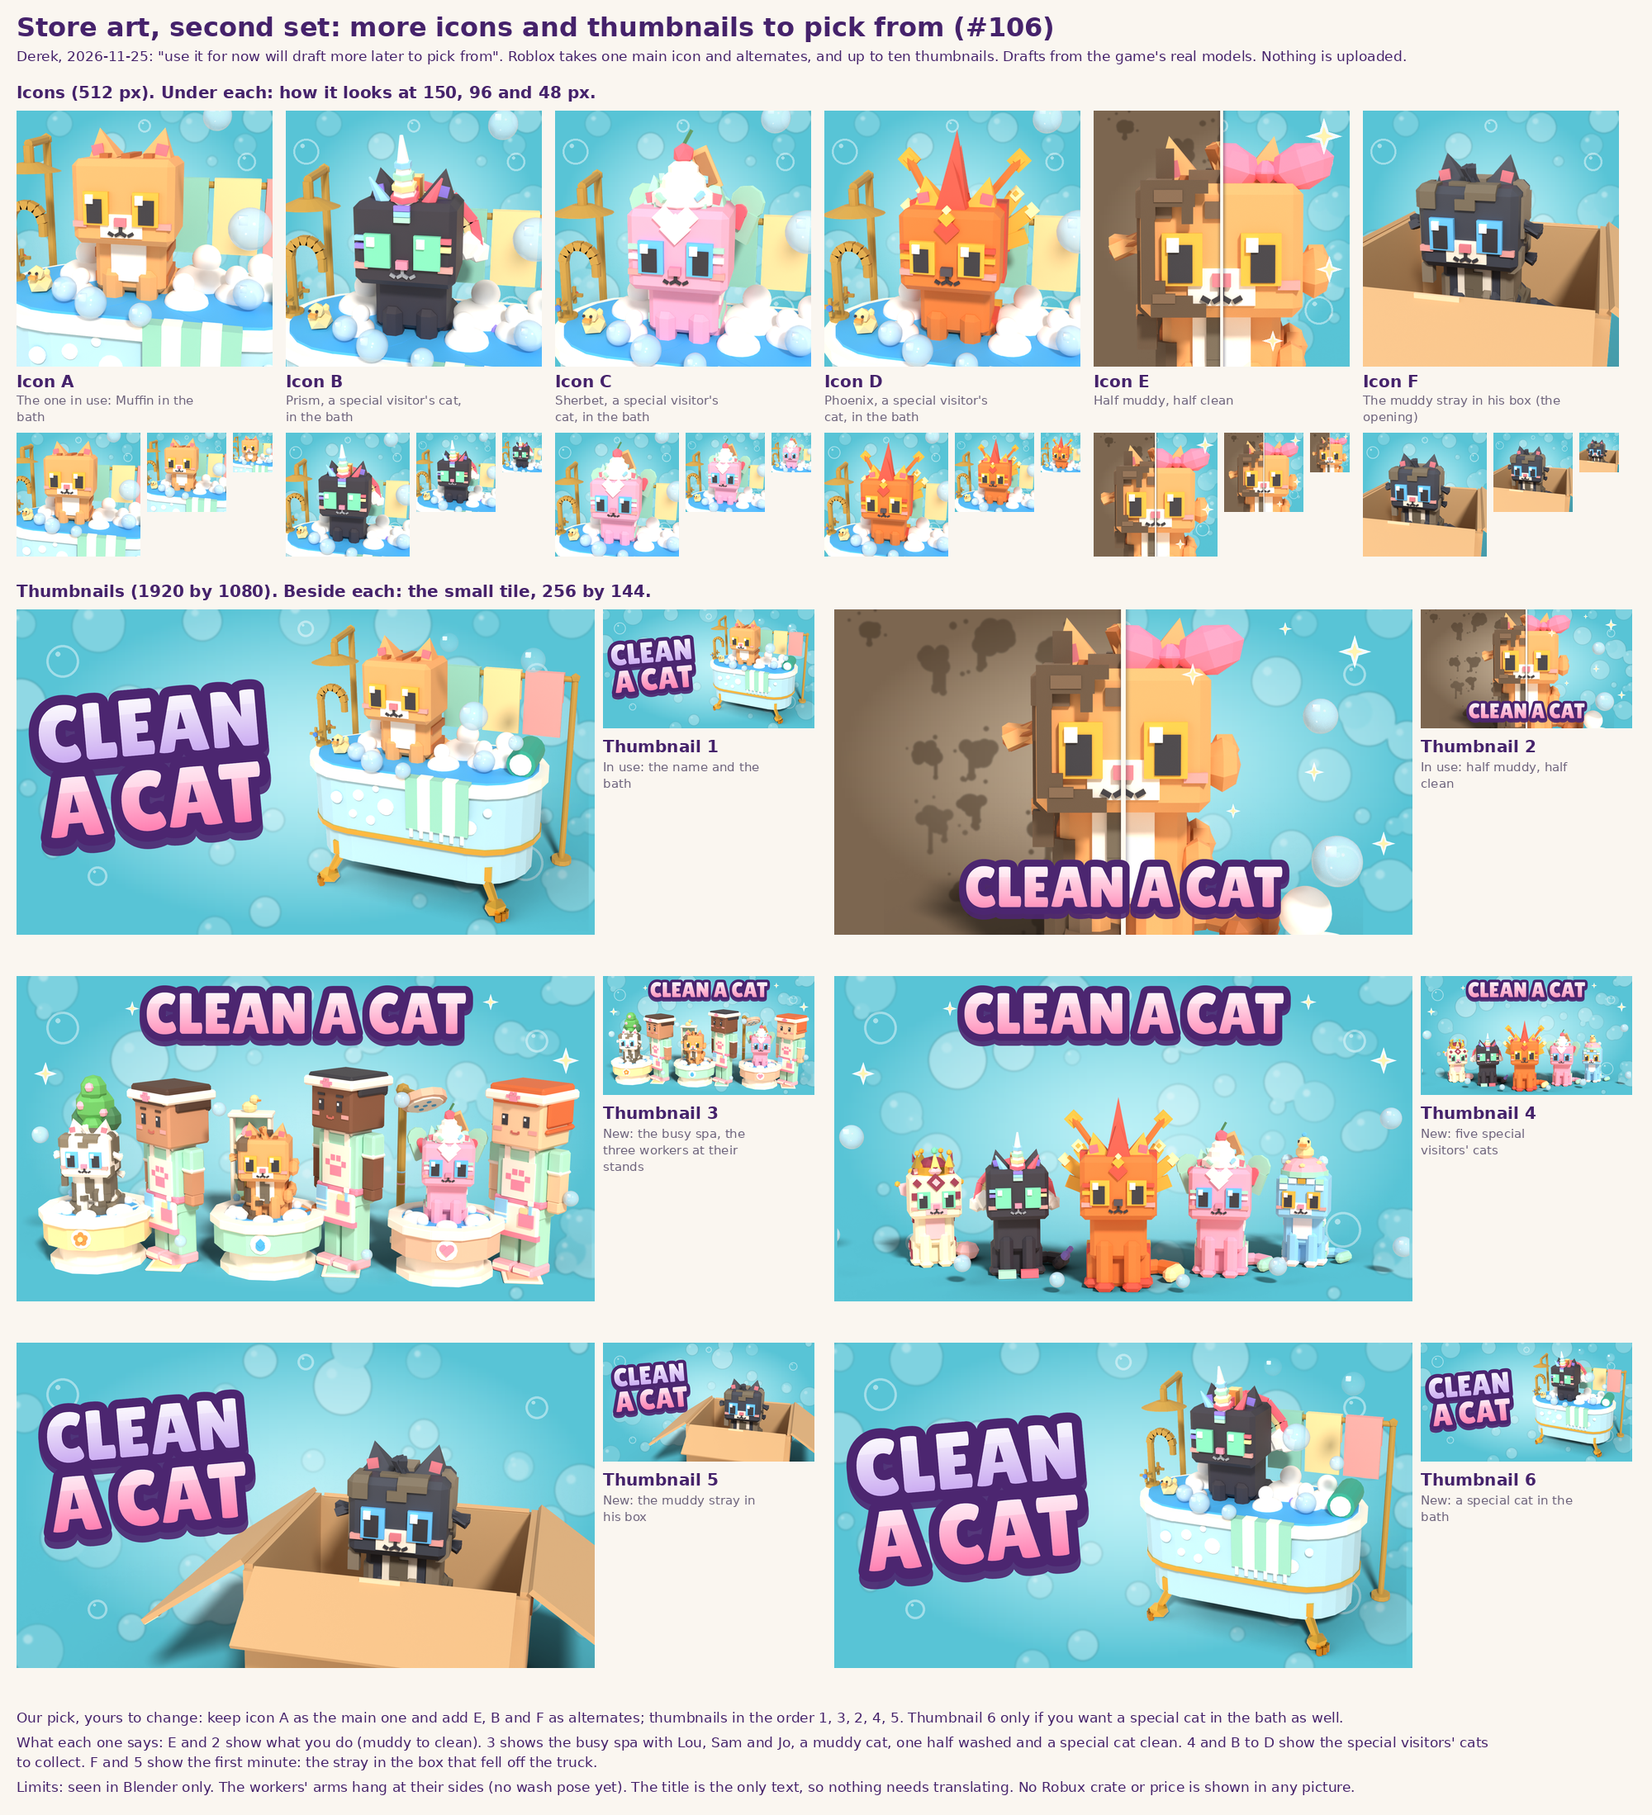
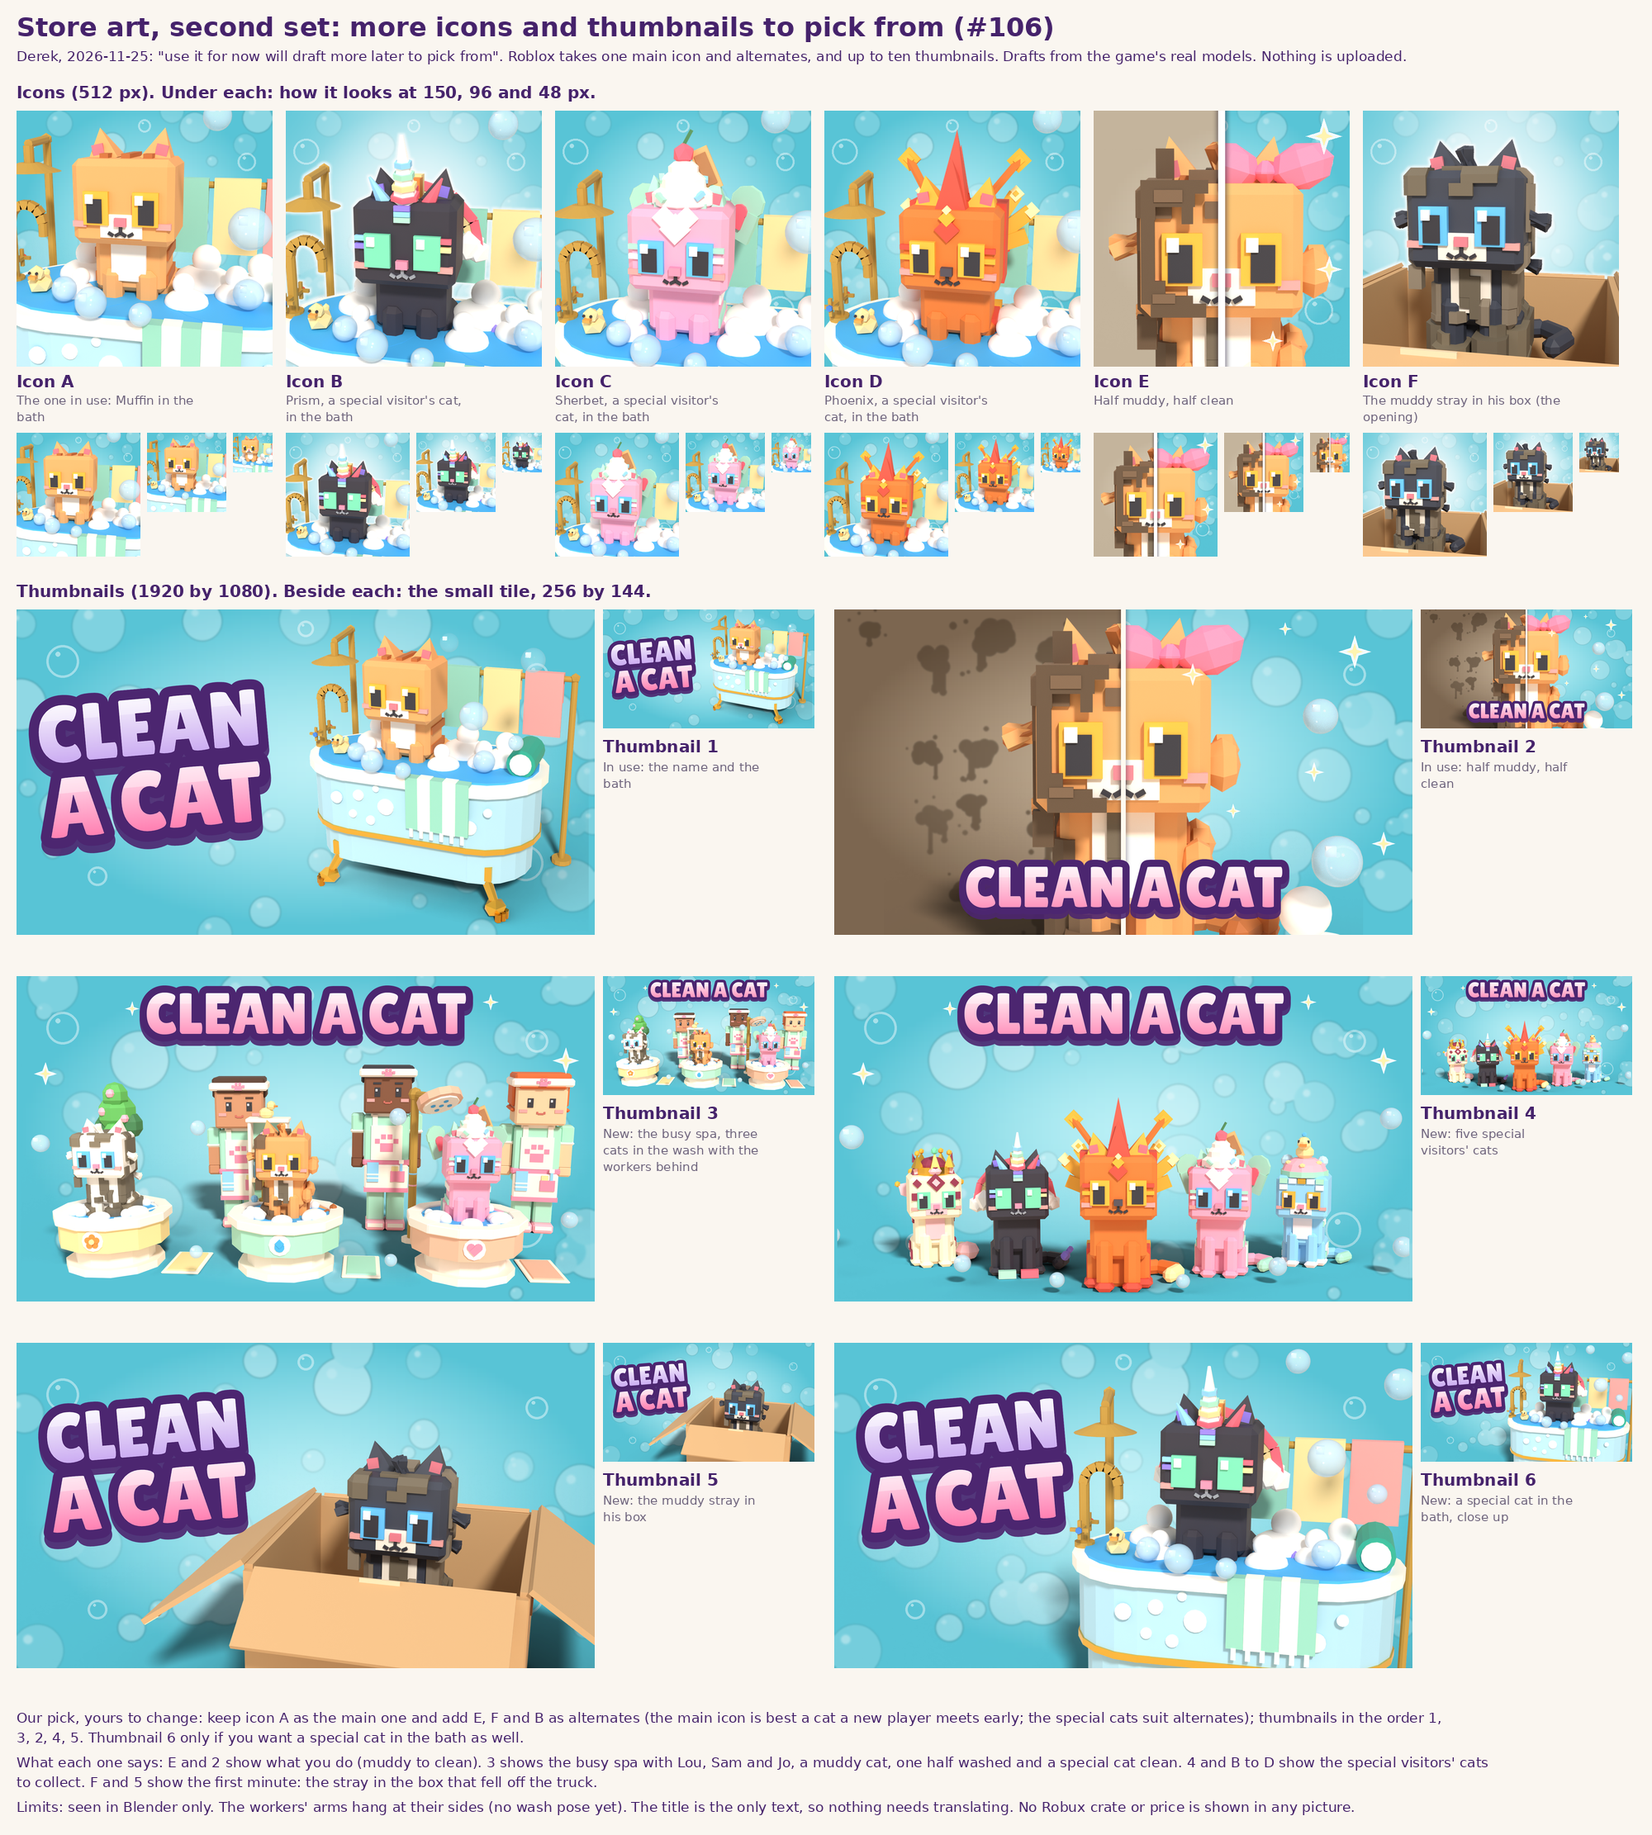
Store art set 2: fix the five pictures Review-QA marked (#106)
Icon B gets a white light behind Prism's dark head, icon E a plain pale
muddy half and a wider white divider, icon F a closer stray against the
backdrop. Thumbnail 3 puts the three cats in front with the workers
behind their stands, and thumbnail 6 is a new close shot of the bath
(thumb-close-<Name>). Pick sheet remade.

Claude-Session: https://claude.ai/code/session_01DW2up3E6M21fYJtCcCtEdr

diff --git a/assets/clean-a-cat/blender/store_compose.py b/assets/clean-a-cat/blender/store_compose.py
@@ -411,13 +411,18 @@ def _split_art(raw_dir):
     return art, rm, dirty.getchannel("A").point(lambda a: 255 if a >= 250 else 0).getbbox()
 
 
+ICON_GLOW = {"icon-spa-Prism": (0.5, 0.42, 0.4), "icon-box": (0.5, 0.4, 0.42)}     # dark cats: light behind the head
+
+
 def icon_split(raw_dir, size=512):
     """An icon from the split thumbnail's renders (#106): the cat's face filling the square, its left half muddy on
     the drab backdrop and its right half clean on the bubbles, the thin line between. No words."""
     art, rm, solid = _split_art(raw_dir)
     bg = bubble_backdrop((size, size), seed=9)
     mid = size // 2
-    bg.paste(mud_backdrop((size * 2, size), seed=7).crop((0, 0, mid, size)), (0, 0))
+    # a pale dusty backdrop with no splats on the muddy half: at 48 px splats and a dark brown made the half one
+    # brown smear, and the mud on the fur has to be the darkest thing there (Review-QA on #106)
+    bg.paste(backdrop_plain((size * 2, size), (238, 228, 210), (196, 180, 156)).crop((0, 0, mid, size)), (0, 0))
     k = size * 1.3 / (solid[3] - solid[1])                 # the head fills the square, the chest runs out under it
     art = art.resize((int(art.width * k), int(art.height * k)), Image.LANCZOS)
     bg.alpha_composite(art, (int(mid - rm * k), int(size * 0.1 - solid[1] * k)))
@@ -428,22 +433,33 @@ def icon_split(raw_dir, size=512):
         sparkle(d, fxr * size, fyr * size, r * size * 0.5, (255, 244, 176, 255))
     bg.alpha_composite(fx)
     line = Image.new("RGBA", (size, size), (0, 0, 0, 0))
-    lw = max(2, int(size * 0.006))
-    ImageDraw.Draw(line).rectangle((mid - lw - 2, 0, mid + lw + 2, size), fill=(40, 30, 60, 90))
-    line = line.filter(ImageFilter.GaussianBlur(lw * 0.8))
-    ImageDraw.Draw(line).rectangle((mid - lw, 0, mid + lw - 1, size), fill=SPLIT_LINE + (255,))
+    lw = max(2, int(size * 0.014))                          # a wide white divider: about 1.5 px at 48
+    ImageDraw.Draw(line).rectangle((mid - lw - 3, 0, mid + lw + 3, size), fill=(40, 30, 60, 120))
+    line = line.filter(ImageFilter.GaussianBlur(lw * 0.6))
+    ImageDraw.Draw(line).rectangle((mid - lw, 0, mid + lw - 1, size), fill=(255, 255, 255, 255))
     bg.alpha_composite(line)
     return bg
 
 
-def icon_plain(raw_dir, key, seed=9, shadow=1.0):
+def icon_plain(raw_dir, key, seed=9, shadow=1.0, glow=None):
     """A 512 icon from a close square render: the bubble backdrop and no words. `shadow` under 1 thins the floor's
-    see-through shadow (the box's flap throws a dark wedge into the corner)."""
+    see-through shadow (the box's flap throws a dark wedge into the corner). `glow` (x, y, radius as shares of the
+    square) puts a soft white light on the backdrop behind a dark cat's head, and a thin light rim goes round the
+    render, so a dark coat holds its outline at 48 px (Review-QA on #106)."""
     bg = bubble_backdrop((512, 512), seed=seed)
     art = Image.open(os.path.join(raw_dir, f"raw-{key}.png")).convert("RGBA")
     if shadow < 1.0:
         art.putalpha(art.getchannel("A").point(lambda v: v if v >= 250 else int(v * shadow)))
     art = art.resize((512, 512), Image.LANCZOS)
+    if glow:
+        gx, gy, gr = (v * 512 for v in glow)
+        light = Image.new("L", (512, 512), 0)
+        ImageDraw.Draw(light).ellipse((gx - gr, gy - gr, gx + gr, gy + gr), fill=215)
+        light = light.filter(ImageFilter.GaussianBlur(gr * 0.42))
+        bg.paste(Image.new("RGBA", (512, 512), (255, 255, 255, 255)), (0, 0), light)
+        solid = art.getchannel("A").point(lambda v: 255 if v >= 250 else 0)
+        rim = solid.filter(ImageFilter.MaxFilter(9)).filter(ImageFilter.GaussianBlur(2.2))
+        bg.paste(Image.new("RGBA", (512, 512), (255, 255, 255, 255)), (0, 0), rim.point(lambda v: int(v * 0.8)))
     bg.alpha_composite(art, (0, 0))
     return bg
 
@@ -469,13 +485,14 @@ def compose_lineup(raw_dir, final=False, key="thumb-lineup"):
     return bg
 
 
-def compose_box(raw_dir, final=False):
-    """The stray in his box (#106): the title on the left, the box close on the right and running out of the frame's
-    foot."""
+def compose_box(raw_dir, final=False, key="thumb-box"):
+    """A render that is the whole frame with the stacked title on its left (#106): the stray in his box
+    (`thumb-box`), the box close on the right and running out of the frame's foot, or the bath close with a special
+    cat in it (`thumb-close-<Name>`)."""
     size = (1920, 1080) if final else (1280, 720)
     w, h = size
     bg = bubble_backdrop(size, seed=5)
-    art = Image.open(os.path.join(raw_dir, "raw-thumb-box.png")).convert("RGBA").resize(size, Image.LANCZOS)
+    art = Image.open(os.path.join(raw_dir, f"raw-{key}.png")).convert("RGBA").resize(size, Image.LANCZOS)
     bg.alpha_composite(art, (0, 0))                       # the render is the whole frame
     title = title_block(int(w * 0.4))
     title = fit(title, w * 0.42, h * 0.8)
@@ -516,12 +533,12 @@ if __name__ == "__main__":
     for name in sorted(os.listdir(raw_dir)):                 # the second set (#106)
         key = name[4:-4]
         if name.startswith("raw-icon-spa-") or key == "icon-box":
-            icon_plain(raw_dir, key, shadow=0.3 if key == "icon-box" else 1.0).convert("RGB").save(
-                os.path.join(out_dir, f"{key}.png"))
+            icon_plain(raw_dir, key, shadow=0.3 if key == "icon-box" else 1.0,
+                       glow=ICON_GLOW.get(key)).convert("RGB").save(os.path.join(out_dir, f"{key}.png"))
         elif name.startswith("raw-thumb-spa-"):
             compose_spa(raw_dir, final, key).convert("RGB").save(os.path.join(out_dir, f"{key}.png"))
-        elif key == "thumb-box":
-            compose_box(raw_dir, final).convert("RGB").save(os.path.join(out_dir, f"{key}.png"))
+        elif key == "thumb-box" or name.startswith("raw-thumb-close-"):
+            compose_box(raw_dir, final, key).convert("RGB").save(os.path.join(out_dir, f"{key}.png"))
         elif key == "thumb-busy":
             compose_lineup(raw_dir, final, key).convert("RGB").save(os.path.join(out_dir, f"{key}.png"))
     if os.path.exists(os.path.join(raw_dir, "raw-split-dirty.png")):

diff --git a/assets/clean-a-cat/blender/store_art.py b/assets/clean-a-cat/blender/store_art.py
@@ -412,6 +412,17 @@ def spa_scene(mat, name="Muffin"):
     return objs, cat, wz
 
 
+def thumb_spa_close(mat, out, res, name="Prism"):
+    """The bath close, the whole frame (#106): the cat on the right two thirds up the frame, the tub's rim, tap, duck
+    and lather round it and the tub running out of the frame's foot and right edge. The title goes on the left."""
+    objs, cat, wz = spa_scene(mat, name)
+    lo, hi = common.bounds(cat)
+    cx = (lo.x + hi.x) / 2
+    top = hi.z + 0.15
+    focus = (Vector((cx - 5.0, lo.y, top - 4.2)), Vector((cx + 2.4, lo.y + 0.4, top)))
+    return render(objs, focus, out, res, az=14, el=13, margin=0.9, lens=55)
+
+
 def thumb_spa(mat, out, res, name="Muffin"):
     """The store thumbnail: the whole bath, blown up."""
     objs, _cat, _wz = spa_scene(mat, name)
@@ -565,9 +576,10 @@ SHOTS = {
 
 
 # ------------------------------------------------------------------ the second set (#106)
-def box_scene(mat):
+def box_scene(mat, lift=0.72):
     """The opening's hook: the muddy stray (Suds, before his wash) looking out of the plain brown box that fell off
-    the truck, its flaps open. Returns (objects, the cat, the box's rim height)."""
+    the truck, its flaps open. `lift` is how far over the box's floor he is held. Returns (objects, the cat, the
+    box's rim height)."""
     import opening
     box = opening.build_box(mat)
     bpy.context.view_layer.update()
@@ -575,16 +587,18 @@ def box_scene(mat):
         for kind, (axis, sign) in opening.FLAP_TURN.items():
             if o.name.endswith("_Flap" + kind):
                 o.matrix_world = o.matrix_world @ Matrix.Rotation(math.radians(sign * opening.FLAP_OPEN), 4, axis)
-    cat = cat_state("Suds", mat, "sit", "dirty", (0, 0.1, opening.BOX_SEAT + 0.72))
+    cat = cat_state("Suds", mat, "sit", "dirty", (0, 0.1, opening.BOX_SEAT + lift))
     return _fresh(box) + cat, cat, opening.RIM
 
 
 def icon_box(mat, out, res):
-    """Icon: the muddy stray's face over the rim of his box."""
-    objs, cat, rim = box_scene(mat)
+    """Icon: the muddy stray's face over the rim of his box. He stands higher than in the thumbnail and the camera
+    is low, so his dark head is against the backdrop and not the box's shaded inside, and the face is about half the
+    square (Review-QA on #106)."""
+    objs, cat, rim = box_scene(mat, lift=1.12)
     lo, hi = common.bounds([o for o in cat if "_Mud" not in o.name and "_Tangle" not in o.name])
-    focus = (Vector((lo.x - 0.35, lo.y, rim - 0.55)), Vector((hi.x + 0.35, lo.y + 0.4, hi.z + 0.08)))
-    return render(objs, focus, out, res, az=14, el=16, margin=1.0, lens=60)
+    focus = (Vector((lo.x - 0.08, lo.y, rim - 0.22)), Vector((hi.x + 0.08, lo.y + 0.4, hi.z + 0.06)))
+    return render(objs, focus, out, res, az=12, el=7, margin=1.0, lens=60)
 
 
 def thumb_box(mat, out, res):
@@ -618,8 +632,10 @@ BUSY = (("Lou", "Cotton", "dirty"), ("Sam", "Muffin", "half"), ("Jo", "Sherbet",
 
 
 def thumb_busy(mat, out, res):
-    """Thumbnail: the busy spa. The three workers at their own wash stands, each with a cat a step further along:
-    a muddy one, one half washed and a special visitor's cat clean. The staff turn half to the camera."""
+    """Thumbnail: the busy spa. The three wash stands in front, each with a cat a step further along: a muddy one,
+    one half washed and a special visitor's cat clean. The workers stand behind and between the stands, facing the
+    camera, so the cats are the biggest things in the frame (Review-QA on #106: with the staff beside the cats it
+    read as a game about people)."""
     import spa_staff
     import worker_stations as ws
     objs = []
@@ -630,12 +646,13 @@ def thumb_busy(mat, out, res):
         objs += _fresh(stand)
         objs += cat_state(cat, mat, "sit", state, (x + ws.BX, ws.BY, ws.SEAT), TUB_K)
         staff = spa_staff.build_staff(who, mat)
-        _move(staff, (x + ws.WX + 0.1, ws.WY + 0.25, 0), 1.0, -40)
+        _move(staff, (x + 2.25, 3.4, 0), 1.0, -6 * (i - 1))
         objs += _fresh(staff)
     lo, hi = common.bounds(objs)
-    drift = floating(mat, [(-6.4, -1.4, 3.6, 0.22), (-1.6, -1.6, 4.4, 0.18), (3.0, -1.5, 4.7, 0.2),
-                           (7.3, -1.2, 2.2, 0.2), (-2.6, -2.0, 1.0, 0.16), (2.2, -2.0, 0.8, 0.15)])
-    return render(objs + drift, objs, out, res, az=6, el=13, margin=1.0, lens=60)
+    drift = floating(mat, [(-6.6, -1.6, 3.4, 0.22), (-2.4, -2.2, 3.9, 0.18), (2.3, -2.2, 4.2, 0.2),
+                           (6.6, -1.4, 1.6, 0.2), (-2.5, -2.4, 0.9, 0.16), (2.2, -2.4, 0.8, 0.15)])
+    focus = (Vector((lo.x + 0.2, -2.0, 0.0)), Vector((hi.x - 0.9, 1.0, hi.z - 0.15)))
+    return render(objs + drift, focus, out, res, az=4, el=11, margin=1.0, lens=38)
 
 
 SHOTS.update({
@@ -648,6 +665,8 @@ SHOTS.update({
 for _name in cats.SPECIAL_CATS:
     SHOTS[f"icon-spa-{_name}"] = (lambda mat, out, res, n=_name: icon_spa(mat, out, res, n), (512, 512), (1024, 1024))
     SHOTS[f"thumb-spa-{_name}"] = (lambda mat, out, res, n=_name: thumb_spa(mat, out, res, n), (900, 900), (1600, 1600))
+    SHOTS[f"thumb-close-{_name}"] = (lambda mat, out, res, n=_name: thumb_spa_close(mat, out, res, n), (1280, 720),
+                                     (1920, 1080))
 
 
 if __name__ == "__main__":

diff --git a/assets/clean-a-cat/blender/README.md b/assets/clean-a-cat/blender/README.md
@@ -51,8 +51,8 @@ Flags: `--only Smudge,Tux` (name fragments; a partial build leaves the manifest 
 | `hud_coin.py` | the HUD coin (#185): redraws the outline of the owner's library coin picture in the HUD ink and leaves the coin as it is. Plain Python with Pillow and numpy |
 | `vip.py` | the VIP Room before it is built (#21): the locked look (door, sign `Screen`, tarp over scaffold) and the building look (frame half up) at `SpotVipDoor`; the finished room `CleanACat_Area_VipRoom` (#448) with its spots and, since #579, seats for resident cats, ten since #712 (`SpotResident1` to `SpotResident10`, `RESIDENTS`) |
 | `coat_table.py` | the coat table (#22): `rbx/CleanACat_CoatTable.json`, read in game as `ReplicatedStorage.Assets.CleanACat_CoatTable` (rarity, index order, colours and model names per cat) |
-| `store_art.py` | store art (#24): the raw icon and thumbnail shots from the real models, with a see-through background and shadows (`store_art.py <folder> [names] [--final]`); `thumb-spa` is the picked thumbnail and uses a store-art-only claw-foot bath ported from Derek's Bathtub Sofa (#116); `split-dirty` and `split-clean` are the two halves of the second thumbnail, one camera on the cat's middle line (#500); the second set (#106): `icon-spa-<Name>` and `thumb-spa-<Name>` put a special visitor's cat in the bath, `icon-box` and `thumb-box` are the muddy stray in his box, `thumb-lineup` a wedge of five special cats, `thumb-busy` the three workers at their wash stands with a muddy, a half washed and a clean cat |
-| `store_compose.py` | store art (#24), plain Python with Pillow: backdrops, the game's name as the only words, the 512 icon and 1280 or 1920 thumbnails, and the draft sheet with 150 and 48 px checks; `compose_spa` makes the picked look (stacked title, bubble backdrop; title font Lilita One, OFL, via `TITLE_FONT`); `compose_split` joins the muddy and the clean half into `thumb-split.png` (#500); for the second set (#106) `icon_split` makes an icon from the same two halves, `icon_plain` an icon from any close square render, `compose_lineup` lays a wide render under the name on one line and `compose_box` the stray's box beside the stacked title |
+| `store_art.py` | store art (#24): the raw icon and thumbnail shots from the real models, with a see-through background and shadows (`store_art.py <folder> [names] [--final]`); `thumb-spa` is the picked thumbnail and uses a store-art-only claw-foot bath ported from Derek's Bathtub Sofa (#116); `split-dirty` and `split-clean` are the two halves of the second thumbnail, one camera on the cat's middle line (#500); the second set (#106): `icon-spa-<Name>` and `thumb-spa-<Name>` put a special visitor's cat in the bath, `icon-box` and `thumb-box` are the muddy stray in his box, `thumb-lineup` a wedge of five special cats, `thumb-busy` a muddy, a half washed and a clean cat in the wash stands with the three workers behind them, `thumb-close-<Name>` the same bath as `thumb-spa-<Name>` from close up, the cat and the foam filling the right half |
+| `store_compose.py` | store art (#24), plain Python with Pillow: backdrops, the game's name as the only words, the 512 icon and 1280 or 1920 thumbnails, and the draft sheet with 150 and 48 px checks; `compose_spa` makes the picked look (stacked title, bubble backdrop; title font Lilita One, OFL, via `TITLE_FONT`); `compose_split` joins the muddy and the clean half into `thumb-split.png` (#500); for the second set (#106) `icon_split` makes an icon from the same two halves, `icon_plain` an icon from any close square render (`ICON_GLOW` puts a white light behind a dark cat's head), `compose_lineup` lays a wide render under the name on one line and `compose_box` the stray's box beside the stacked title |
 | `customers.py` | the customers' accessories for the R15 rig and the four looks (`LOOKS`, #16) |
 | `townsfolk.py` | the customers as our own townsfolk with joints for the walk in (`LOOKS`, #446) and the special customers who bring the special cats (`SPECIAL_LOOKS`, #476); `build_figure` and the uniform switches (`apron`, `short_sleeves`, `headband`) also build the staff |
 | `props.py` | the three bows (#14) with their `BowSlot` attachment, their two better tiers in each colour (`Double`, `Royal`) and a button for each (#501), the hook for props built into a cat (the builder's hat, #20) and the pieces built into the special cats (#486): a head piece, a back piece, lit parts and tail pieces, drawn the asset library's way (`Pen`, `Ctx`, `PROPS`, `PROPS2`, `PIECES`) |
